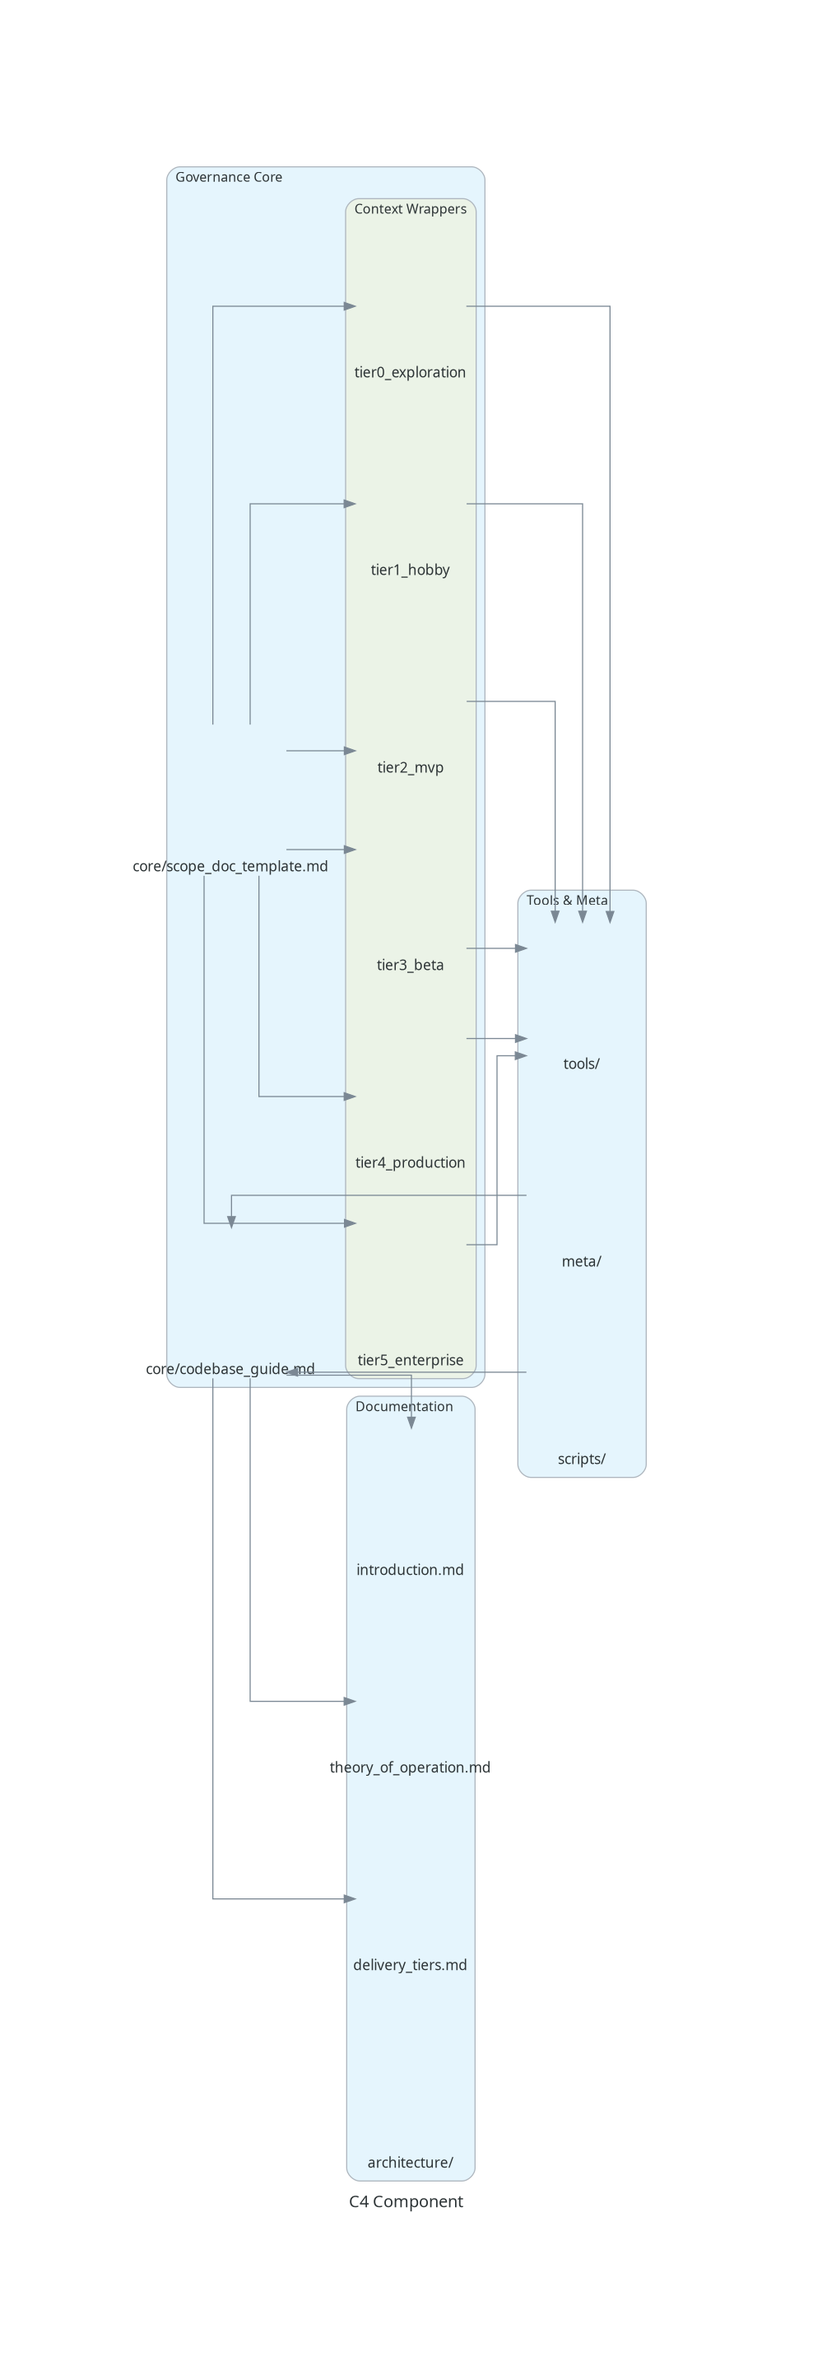
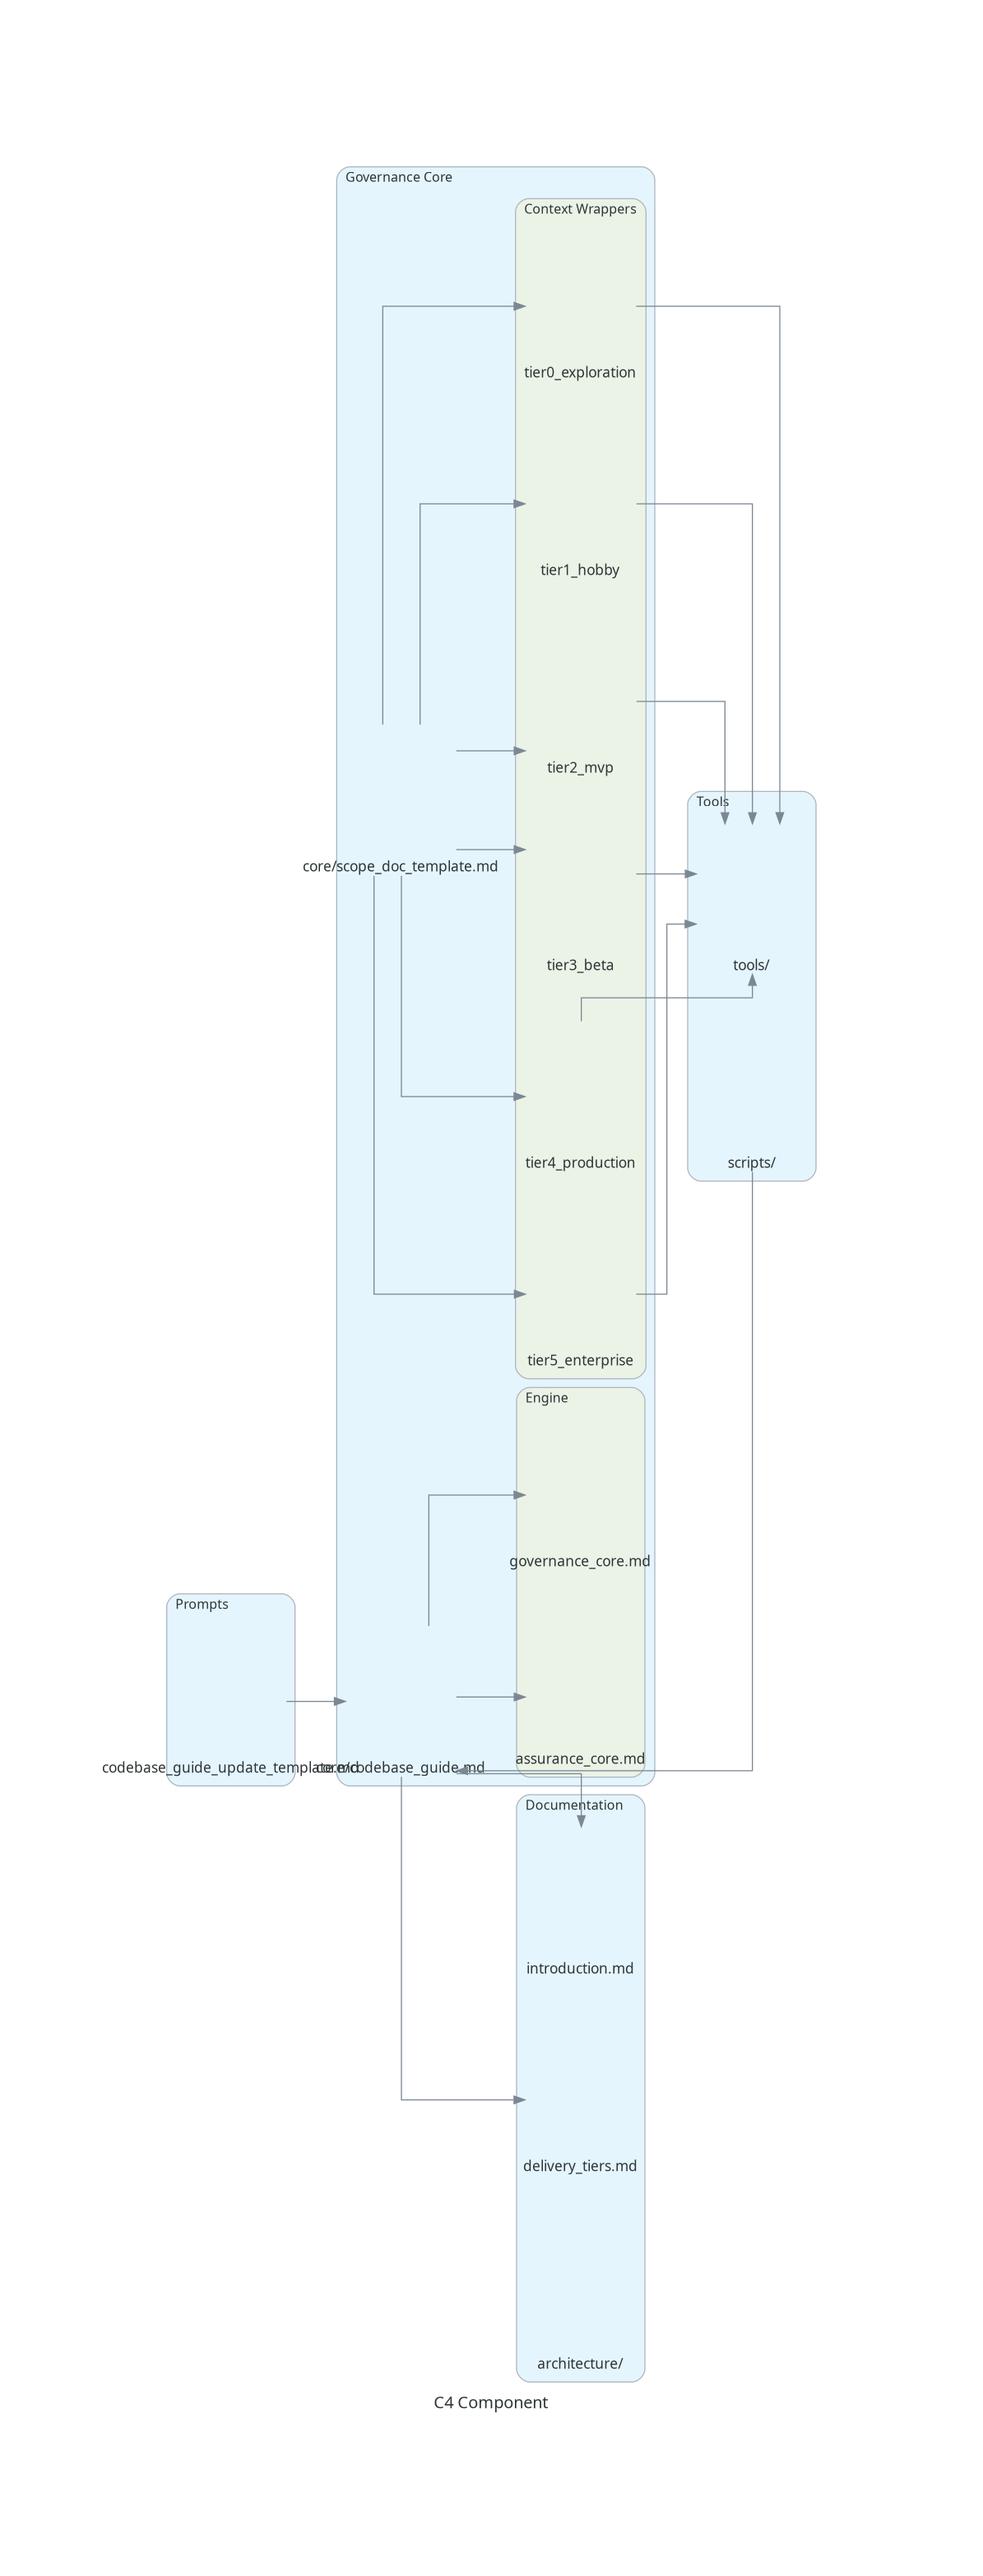
Refactor: Remove unnecessary docs and reorganize directory structure

diff --git a/docs/architecture/generate_c4_diagrams.py b/docs/architecture/generate_c4_diagrams.py
@@ -14,12 +14,12 @@ def container_diagram():
         repo = Blank("AI Delivery Framework Repo")
         with Cluster("Top-level Directories"):
             core = Blank("core/")
-            meta = Blank("meta/")
+            prompts = Blank("prompts/")
             docs = Blank("docs/")
             tools = Blank("tools/")
             scripts = Blank("scripts/")
             github = Blank(".github/")
-        repo >> [core, meta, docs, tools, scripts, github]
+        repo >> [core, prompts, docs, tools, scripts, github]
 
 
 def component_diagram():
@@ -35,22 +35,28 @@ def component_diagram():
                 tier3 = Blank("tier3_beta")
                 tier4 = Blank("tier4_production")
                 tier5 = Blank("tier5_enterprise")
+            
+            with Cluster("Engine"):
+                governance = Blank("governance_core.md")
+                assurance = Blank("assurance_core.md")
         
         with Cluster("Documentation"):
             intro = Blank("introduction.md")
-            theory = Blank("theory_of_operation.md")
             tiers = Blank("delivery_tiers.md")
             arch = Blank("architecture/")
         
-        with Cluster("Tools & Meta"):
+        with Cluster("Tools"):
             tools_dir = Blank("tools/")
-            meta_dir = Blank("meta/")
             scripts_dir = Blank("scripts/")
         
-        codebase_guide >> [intro, theory, tiers]
+        with Cluster("Prompts"):
+            codebase_update = Blank("codebase_guide_update_template.md")
+        
+        codebase_guide >> [intro, tiers]
+        codebase_guide >> [governance, assurance]
         scope_template >> [tier0, tier1, tier2, tier3, tier4, tier5]
         [tier0, tier1, tier2, tier3, tier4, tier5] >> tools_dir
-        meta_dir >> codebase_guide
+        codebase_update >> codebase_guide
         scripts_dir >> codebase_guide
 
 

diff --git a/core/codebase_guide.md b/core/codebase_guide.md
@@ -9,7 +9,6 @@ This guide provides an authoritative description of the current codebase state.
 | Directory | Purpose |
 |-----------|---------|
 | `core/` | Contains governance core components: codebase guide, scope template, context wrappers |
-| `meta/` | Engine design documentation and templates |
 | `docs/` | User-facing documentation and architecture diagrams |
 | `tools/` | Tool recommendations and tooling landscape information |
 | `scripts/` | Utility scripts for repository maintenance |
@@ -22,19 +21,15 @@ This guide provides an authoritative description of the current codebase state.
 | `core/codebase_guide.md` | Authoritative description of current codebase state |
 | `core/scope_doc_template.md` | Template for creating versioned evolution plans |
 | `core/context_wrappers/tier*` | Delivery tier-specific disciplinary controls (0-5) |
-| `docs/00_index.md` | Documentation index and navigation |
 | `docs/introduction.md` | Engine onboarding documentation |
-| `docs/theory_of_operation.md` | Conceptual foundation explanation |
 | `docs/delivery_tiers.md` | Progressive rigor model details |
 | `docs/workflow.md` | Detailed workflow documentation |
 | `docs/tools_comparison.md` | Comparison of available tools |
 | `docs/when_you_can_change_scope_mid_workflow_and_when_you_cant.md` | Guidance on scope management |
 | `docs/architecture/generate_c4_diagrams.py` | Script to generate architecture diagrams |
-| `meta/governance_core.md` | Engine governance principles |
-| `meta/assurance_core.md` | Assurance mechanisms documentation |
-| `meta/model_strategy.md` | Strategy for model interaction and usage |
-| `meta/OPEN_CHALLENGES.md` | Documentation of current challenges |
-| `meta/codebase_guide_update_template.md` | Template for updating the codebase guide |
+| `core/engine/governance_core.md` | Engine governance principles |
+| `core/engine/assurance_core.md` | Assurance mechanisms documentation |
+| `prompts/codebase_guide_update_template.md` | Template for updating the codebase guide |
 | `tools/recommended_tool_criteria.md` | Criteria for tool selection |
 | `tools/current_tooling_landscape.md` | Overview of available AI tools |
 | `scripts/consolidate_codebase.py` | Script to consolidate codebase into a single text file |

diff --git a/docs/scopes/v0.1.0.md b/docs/scopes/v0.1.0.md
@@ -11,14 +11,14 @@ The primary objective of this version is to establish a stable, foundational eng
 | Goal              | Target State                                  | Benefit                               | Acceptance Criteria                                                                 |
 |-------------------|-----------------------------------------------|---------------------------------------|-----------------------------------------------------------------------------------|
 | **Core Engine**| Stable foundation                             | Engine ready for early testing     | Core directories (`core/`, `docs/`, `meta/`, `tools/`, `scripts/`) are populated with baseline files. Key governance files (`codebase_guide.md`, `scope_doc_template.md`) exist and are usable. |
-| **Documentation** | Essential guides complete                     | Clear pathway for adoption            | `docs/introduction.md`, `docs/theory_of_operation.md`, `docs/delivery_tiers.md` provide sufficient detail for a user to understand the engine's purpose, concepts, and tiers. |
+| **Documentation** | Essential guides complete                     | Clear pathway for adoption            | `docs/introduction.md`, `docs/delivery_tiers.md` provide sufficient detail for a user to understand the engine's purpose, concepts, and tiers. |
 | **Delivery Tiers**| Tiers 0-5 defined and initial implementation | Structured approach to governance     | `core/context_wrappers/` contains placeholder or initial templates for tiers 0 through 5, demonstrating the tiered structure. |
 
 ## Deliverables
 
 -   Populated core directory structures.
 -   Initial versions of key governance documents (`codebase_guide.md`, `scope_doc_template.md`).
--   Essential user documentation (`introduction.md`, `theory_of_operation.md`, `delivery_tiers.md`).
+-   Essential user documentation (`introduction.md`, `delivery_tiers.md`).
 -   Placeholder context wrappers for tiers 0-5.
 -   Basic `README.md` and `CONTRIBUTING.md`.
 

diff --git a/README.md b/README.md
@@ -107,10 +107,9 @@ A fuller explanation lives in [`docs/workflow.md`](docs/workflow.md).
 ## Where to Start
 
 1. **Read the Overview** — Start with [`docs/introduction.md`](docs/introduction.md) for an end-to-end orientation.
-2. **Understand the Engine** — Dive into [`docs/theory_of_operation.md`](docs/theory_of_operation.md) to see how Governance and Assurance interact.
-3. **Follow the Workflow** — See the high-level roll-up in [`docs/workflow.md`](docs/workflow.md).
-4. **Pick Your Tier** — Select a Delivery Tier in [`docs/delivery_tiers.md`](docs/delivery_tiers.md) and load its Context Wrapper.
-5. **Create Scope & Guide** — Scaffold your first Scope Document (`docs/scopes/v0.x.0.md`) and update `core/codebase_guide.md`.
+2. **Follow the Workflow** — See the high-level roll-up in [`docs/workflow.md`](docs/workflow.md).
+3. **Pick Your Tier** — Select a Delivery Tier in [`docs/delivery_tiers.md`](docs/delivery_tiers.md) and load its Context Wrapper.
+4. **Create Scope & Guide** — Scaffold your first Scope Document (`docs/scopes/v0.x.0.md`) and update `core/codebase_guide.md`.
 
 After those five steps you're ready to clone, build, and start shipping.
 

diff --git a/docs/introduction.md b/docs/introduction.md
@@ -131,7 +131,6 @@ graph TD
 
 | Topic | Document |
 |-------|----------|
-| Engine Theory | [Theory of Operation](theory_of_operation.md) |
 | Workflow | [Workflow](workflow.md) |
 | Roadmap | [Roadmap](../roadmap.md) |
 
